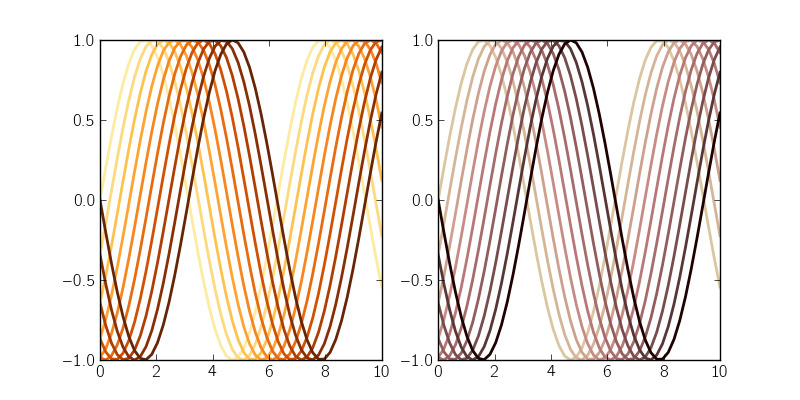
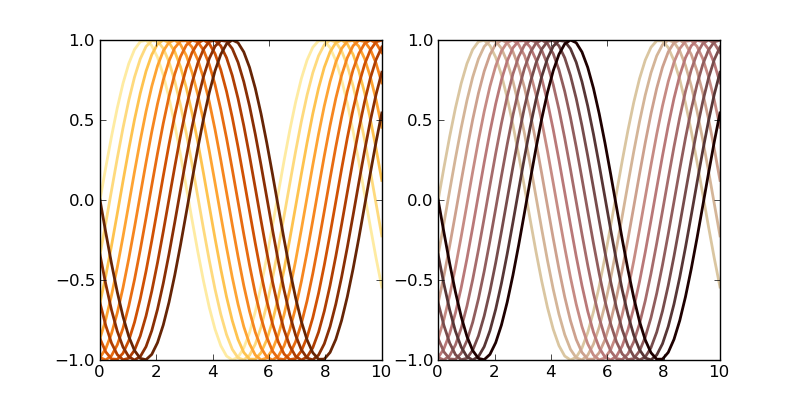
DOC: Reset to matplotlib defaults and use new optional rcparams.

diff --git a/doc/ext/plot2rst.py b/doc/ext/plot2rst.py
@@ -246,7 +246,7 @@ def rst_file_from_example(src_name, src_dir, rst_dir, cfg):
     image_path = os.path.join(image_dir, image_fmt_str)
 
     if cfg.plot2rst_add_gallery:
-        figure_list = save_plot(src_path, image_path, thumb_path)
+        figure_list = save_plot(src_path, image_path, thumb_path, cfg)
         this_template = plot_rst_template
     else:
         figure_list = []
@@ -273,7 +273,7 @@ def rst_file_from_example(src_name, src_dir, rst_dir, cfg):
     f.flush()
 
 
-def save_plot(src_path, image_path, thumb_path):
+def save_plot(src_path, image_path, thumb_path, cfg):
     """Save plots as images.
 
     Parameters
@@ -284,6 +284,8 @@ def save_plot(src_path, image_path, thumb_path):
         Path where plots are saved (format string with single string argument).
     thumbpath : str
         Path where thumbnails of plots are saved.
+    cfg : config object
+        Sphinx config object created by Sphinx.
 
     Returns
     -------
@@ -303,6 +305,8 @@ def save_plot(src_path, image_path, thumb_path):
             # We need to execute the code
             print 'plotting %s' % src_name
             import matplotlib.pyplot as plt
+            plt.rcdefaults()
+            plt.rcParams.update(cfg.plot2rst_rcparams)
             plt.close('all')
             cwd = os.getcwd()
             try:

diff --git a/doc/source/conf.py b/doc/source/conf.py
@@ -278,3 +278,8 @@ if on_rtd:
     for mod_name in MOCK_MODULES:
         sys.modules[mod_name] = Mock()
 
+# -- Options for plot2rst
+plot2rst_rcparams = {'legend.loc': 'best',
+                     'legend.numpoints': 1,
+                     'image.cmap' : 'gray'}
+
